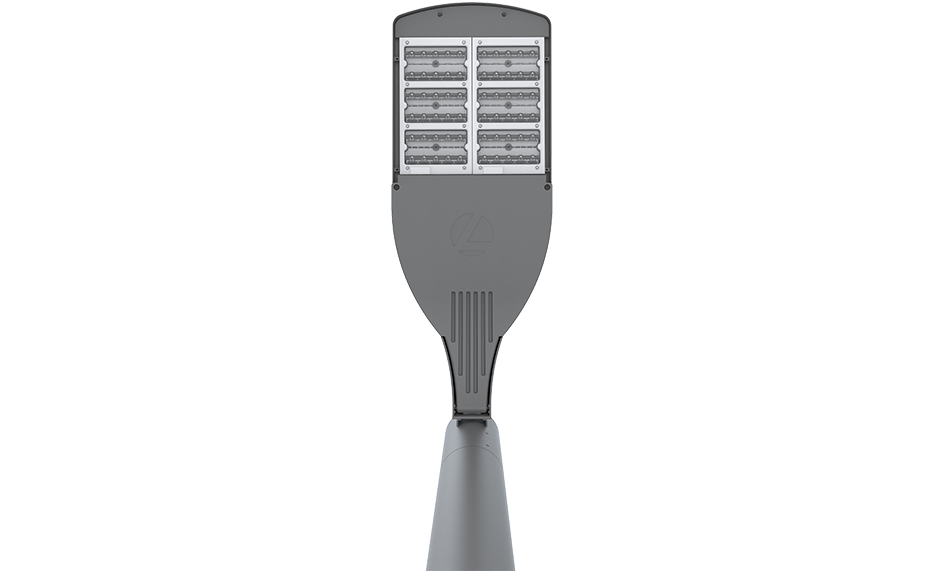
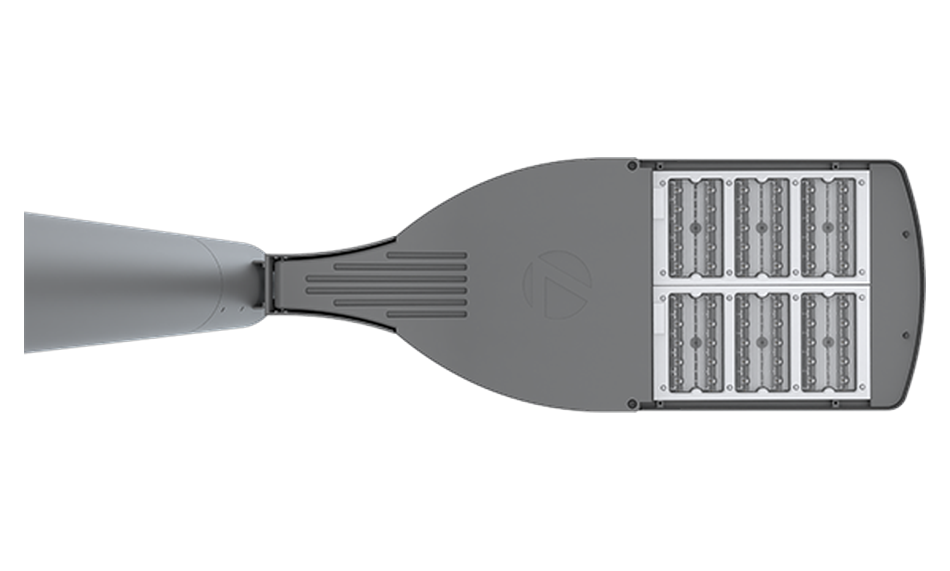
Fix DSX1's rotated bottom-view photo, add size filter to declutter the DSX gallery
- DSX1's bottom-view shot was a straight-up vertical photo (camera looking
  directly up the pole) while DSX0's and DSX2's equivalents are angled
  shots from below with the pole running horizontally. Rotated and
  rescaled it to match that framing convention.
- With 12 photos + a dimension diagram now in the DSX gallery, it read as
  cluttered. Added a size filter (DSX0/DSX1/DSX2/All) above the
  thumbnails, generated automatically whenever a product's images carry
  more than one distinct "size" value — defaults to the hero's size (5
  thumbnails visible instead of 13), with "All" to see everything.
  DPL's gallery is untouched since none of its images have a size tag.

diff --git a/assets/js/product.js b/assets/js/product.js
@@ -88,6 +88,21 @@
         '</div>'
       );
     }
+    var sizes = [];
+    images.forEach(function (img) {
+      if (img.size && sizes.indexOf(img.size) === -1) sizes.push(img.size);
+    });
+    var defaultSize = sizes[0];
+
+    var filterBar = sizes.length > 1 ? (
+      '<div class="product-gallery__filter" role="tablist" aria-label="Filter by size">' +
+        sizes.map(function (s, i) {
+          return '<button type="button" class="gallery-filter-btn' + (i === 0 ? ' is-active' : '') + '" data-filter="' + esc(s) + '">' + esc(s) + '</button>';
+        }).join("") +
+        '<button type="button" class="gallery-filter-btn" data-filter="all">All (' + images.length + ')</button>' +
+      '</div>'
+    ) : "";
+
     return (
       '<div class="product-gallery" id="productGallery">' +
         '<div class="product-hero__frame product-gallery__main">' +
@@ -98,12 +113,15 @@
           '<span class="bracket bracket--bl" aria-hidden="true"></span>' +
           '<span class="bracket bracket--br" aria-hidden="true"></span>' +
         '</div>' +
+        filterBar +
         (images.length > 1 ?
           '<div class="product-gallery__thumbs" role="tablist" aria-label="Product images">' +
             images.map(function (img, i) {
+              var hidden = sizes.length > 1 && img.size && img.size !== defaultSize;
               return (
                 '<button type="button" class="product-gallery__thumb' + (i === 0 ? ' is-active' : '') + '" ' +
                   'data-src="../' + esc(img.file) + '" data-alt="' + esc(img.alt) + '" data-size="' + esc(img.size || '') + '" ' +
+                  (hidden ? 'style="display:none" ' : '') +
                   'role="tab" aria-selected="' + (i === 0 ? 'true' : 'false') + '" aria-label="' + esc(img.alt) + '">' +
                   '<img src="../' + esc(img.file) + '" alt="" loading="lazy">' +
                   (img.size ? '<span class="product-gallery__thumb-label">' + esc(img.size) + '</span>' : '') +
@@ -163,12 +181,30 @@
       btn.addEventListener("click", function () { activate(btn); });
     });
 
+    var filterBtns = gallery.querySelectorAll(".gallery-filter-btn");
+    filterBtns.forEach(function (fbtn) {
+      fbtn.addEventListener("click", function () {
+        filterBtns.forEach(function (b) { b.classList.remove("is-active"); });
+        fbtn.classList.add("is-active");
+        var val = fbtn.getAttribute("data-filter");
+        var firstVisible = null;
+        thumbs.forEach(function (t) {
+          var size = t.getAttribute("data-size");
+          var show = val === "all" || !size || size === val;
+          t.style.display = show ? "" : "none";
+          if (show && size && !firstVisible) firstVisible = t;
+        });
+        if (val !== "all" && firstVisible) activate(firstVisible);
+      });
+    });
+
     if (thumbs.length > 1) {
       var frame = gallery.querySelector(".product-gallery__main");
       var list = Array.prototype.slice.call(thumbs);
       var advance = function () {
-        var activeIndex = list.findIndex(function (b) { return b.classList.contains("is-active"); });
-        activate(list[(activeIndex + 1) % list.length]);
+        var visible = list.filter(function (b) { return b.style.display !== "none"; });
+        var activeIndex = visible.findIndex(function (b) { return b.classList.contains("is-active"); });
+        activate(visible[(activeIndex + 1) % visible.length]);
       };
       frame.classList.add("is-cyclable");
       frame.setAttribute("role", "button");

diff --git a/assets/css/product.css b/assets/css/product.css
@@ -110,6 +110,35 @@
   cursor: pointer;
 }
 
+.product-gallery__filter {
+  display: flex;
+  flex-wrap: wrap;
+  gap: var(--space-2);
+  margin-top: var(--space-3);
+}
+
+.gallery-filter-btn {
+  background: transparent;
+  border: 1px solid var(--border-on-dark);
+  color: var(--grey-400);
+  font-family: var(--font-mono);
+  font-size: var(--text-xs);
+  letter-spacing: 0.04em;
+  padding: 0.4em 0.9em;
+  cursor: pointer;
+  transition: border-color var(--dur-fast) var(--ease-out), color var(--dur-fast) var(--ease-out);
+}
+
+.gallery-filter-btn:hover {
+  border-color: var(--grey-500);
+  color: var(--text-on-dark);
+}
+
+.gallery-filter-btn.is-active {
+  border-color: var(--glow);
+  color: var(--glow-soft);
+}
+
 .product-gallery__thumbs {
   display: grid;
   grid-template-columns: repeat(4, 1fr);
